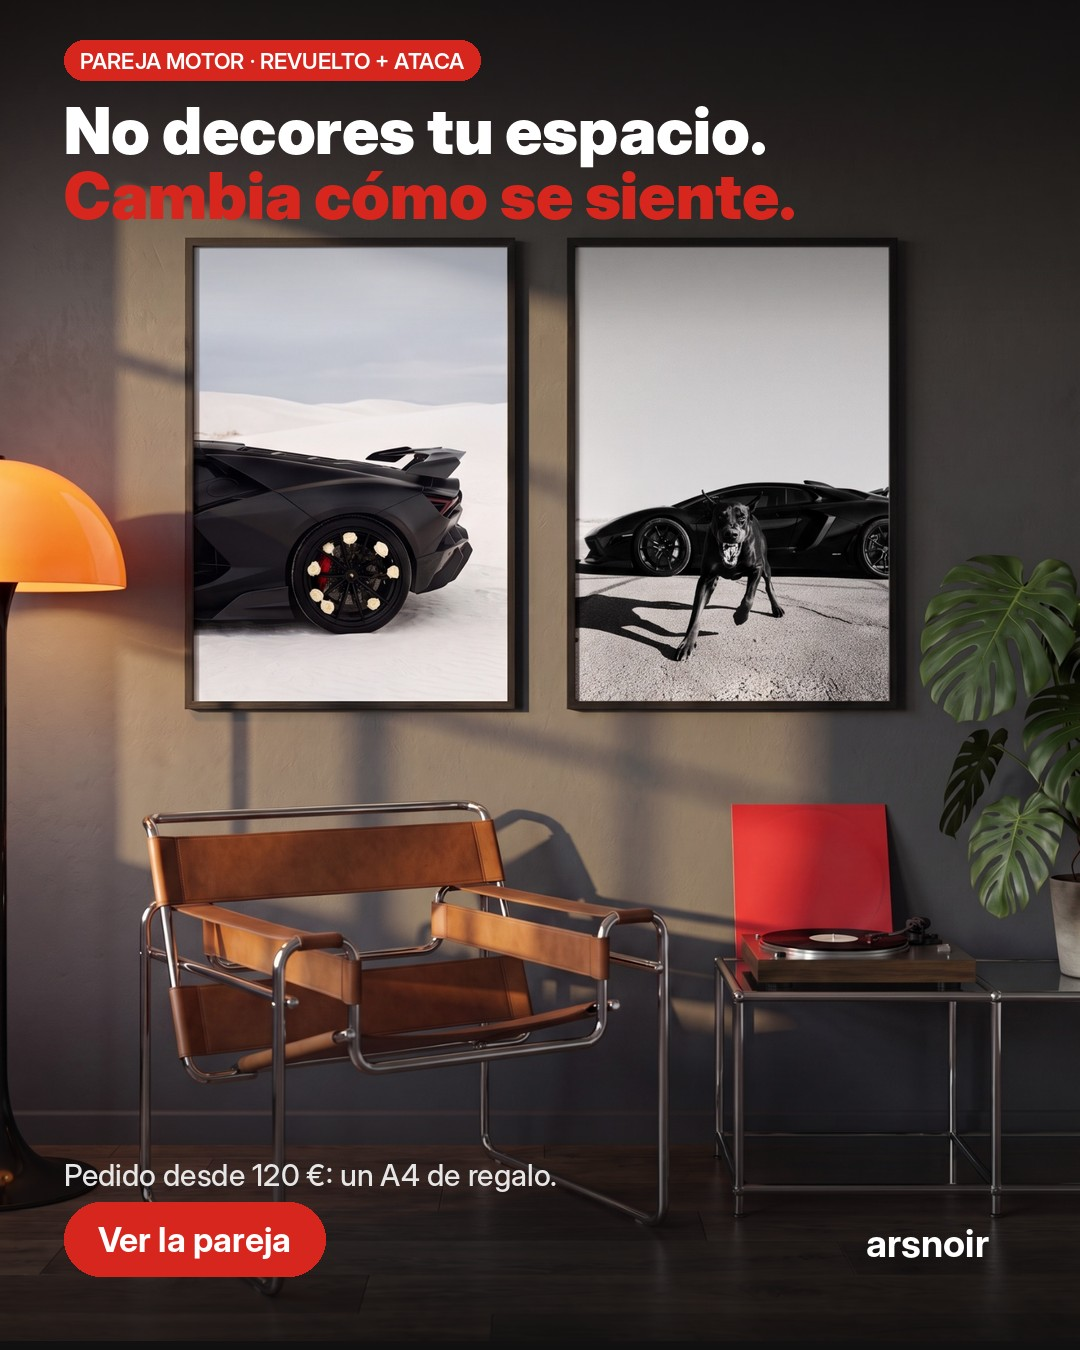
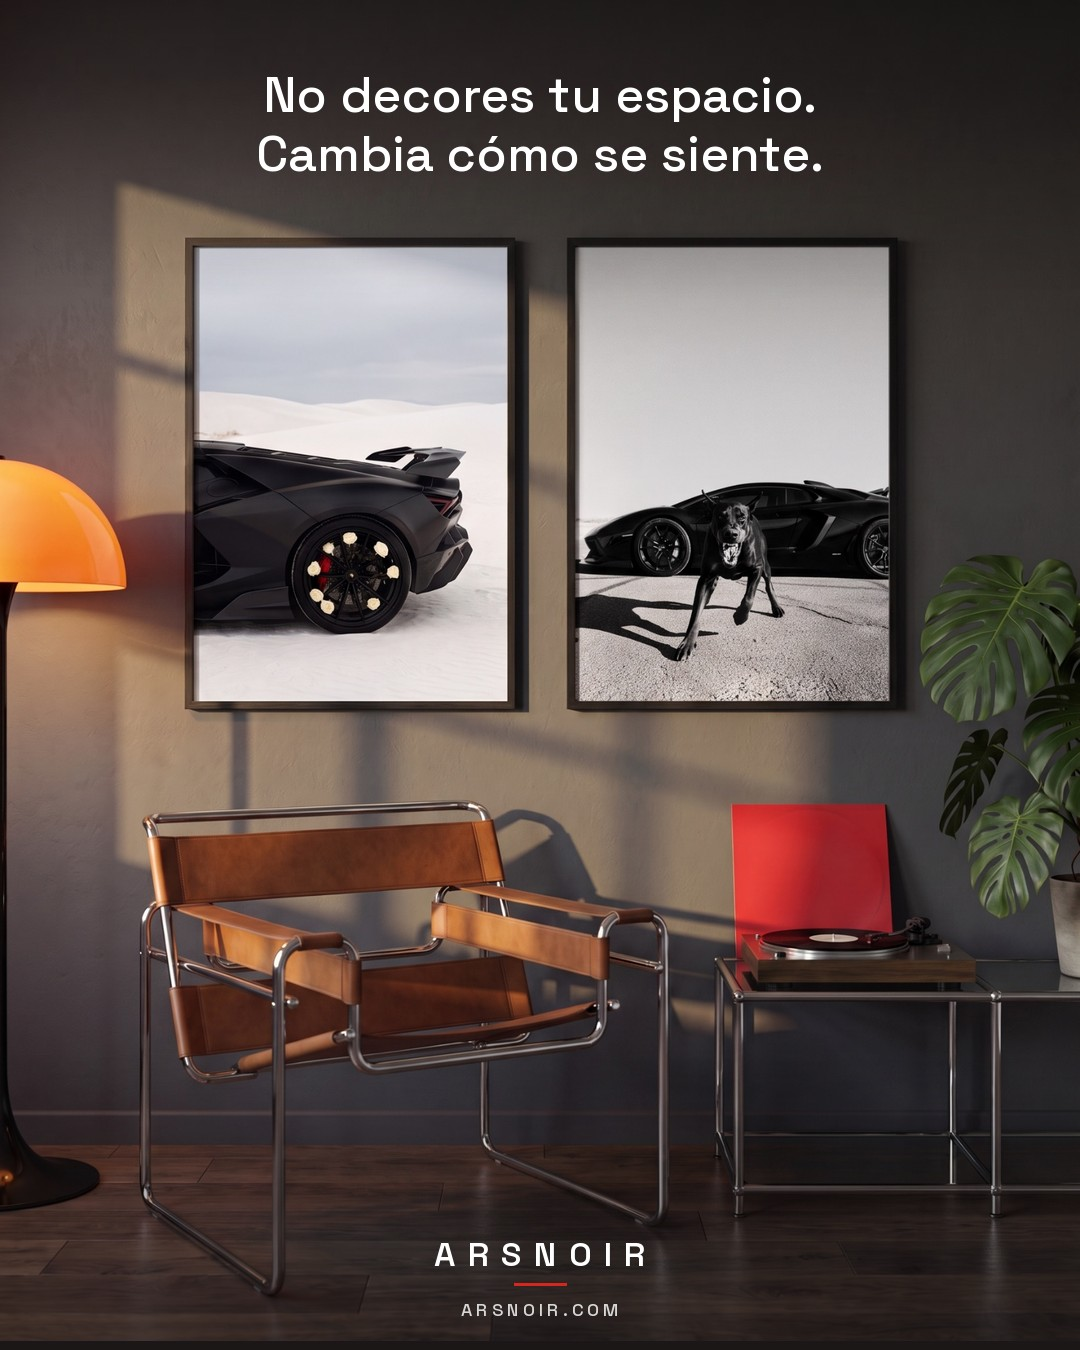
Meta Ads: pair ads c11/c12 in the brand's editorial style (Space Grotesk, centered line, spaced ARSNOIR wordmark, no drawn button)
Claude-Session: https://claude.ai/code/session_0194VZ5ga5soZRAmzpfCecMg

diff --git a/data/meta-ads-creativos.py b/data/meta-ads-creativos.py
@@ -368,13 +368,78 @@ def hero_ad(cid, photo, kicker, line1, line2, cta, tag):
         save(im, f"{cid}-{fmt}.jpg")
 
 
-hero_ad(
+
+def grotesk(size, weight):
+    """Space Grotesk del tema (assets/space-grotesk-latin.woff2), la tipografía de la web."""
+    import io
+    from fontTools.ttLib import TTFont
+    tt = TTFont(str(ROOT / "assets" / "space-grotesk-latin.woff2"))
+    tt.flavor = None
+    buf = io.BytesIO()
+    tt.save(buf)
+    buf.seek(0)
+    f = ImageFont.truetype(buf, size)
+    f.set_variation_by_axes([weight])
+    return f
+
+
+def spaced(draw, cx, y, text, f, fill, tracking):
+    """Texto centrado con espaciado entre letras (como el logotipo de los reels)."""
+    widths = [draw.textlength(ch, font=f) for ch in text]
+    total = sum(widths) + tracking * (len(text) - 1)
+    x = cx - total / 2
+    for ch, w in zip(text, widths):
+        draw.text((x, y), ch, font=f, fill=fill)
+        x += w + tracking
+    return total
+
+
+def editorial_ad(cid, photo, lines, caption=None):
+    """Foto a sangre con el texto mínimo de la marca: frase centrada arriba y ARSNOIR abajo.
+    Sin botón dibujado: el botón lo pone Meta debajo del anuncio."""
+    src = Image.open(M / photo).convert("RGB")
+    wall = src.getpixel((src.width // 2, 40))
+    floor = src.getpixel((src.width // 2, src.height - 10))
+    for fmt, (W, H) in {"4x5": (1080, 1350), "9x16": (1080, 1920)}.items():
+        im = Image.new("RGBA", (W, H), wall + (255,))
+        ph = round(src.height * W / src.width)
+        photo_y = 0 if fmt == "4x5" else 250
+        im.paste(src.resize((W, ph), Image.LANCZOS), (0, photo_y))
+        if fmt == "9x16":
+            fade = 160
+            top = Image.new("RGBA", (W, fade), wall + (255,))
+            top.putalpha(Image.linear_gradient("L").rotate(180).resize((W, fade)))
+            im.alpha_composite(top, (0, photo_y))
+            below = Image.new("RGBA", (W, H - (photo_y + ph) + fade), floor + (255,))
+            mask = Image.new("L", below.size, 255)
+            mask.paste(Image.linear_gradient("L").resize((W, fade)), (0, 0))
+            below.putalpha(mask)
+            im.alpha_composite(below, (0, photo_y + ph - fade))
+        im.alpha_composite(gradient(W, 300 + photo_y, 110, 0), (0, 0))
+        im.alpha_composite(gradient(W, 300, 0, 150), (0, H - 300 - (0 if fmt == "4x5" else 380)))
+        if fmt == "9x16":
+            im.alpha_composite(Image.new("RGBA", (W, 380), INK + (150,)), (0, H - 380))
+        d = ImageDraw.Draw(im)
+        cx = W / 2
+        size = 50 if fmt == "4x5" else 54
+        f = grotesk(size, 500)
+        y = 62 if fmt == "4x5" else 300
+        for line in lines:
+            d.text((cx - d.textlength(line, font=f) / 2, y), line, font=f, fill=WHITE)
+            y += round(size * 1.18)
+        base = H - 118 if fmt == "4x5" else round(H * 0.80) - 70
+        w = spaced(d, cx, base, "ARSNOIR", grotesk(34, 600), WHITE, 12)
+        d.line((cx - 26, base + 52, cx + 26, base + 52), fill=RED, width=3)
+        small = caption or "ARSNOIR.COM"
+        spaced(d, cx, base + 66, small.upper(), grotesk(18, 500), (215, 215, 215), 4)
+        save(im, f"{cid}-{fmt}.jpg")
+
+
+editorial_ad(
     "c11-pareja-motor", "ads/src/pareja-motor-revuelto-ataca.jpg",
-    "Pareja Motor · Revuelto + Ataca", "Hay quien los aparca.", "Tú los cuelgas.",
-    "Ver la pareja", "Pedido desde 120 €: un A4 de regalo.",
+    ["Hay quien los aparca.", "Tú los cuelgas."],
 )
-hero_ad(
+editorial_ad(
     "c12-pareja-motor-manifiesto", "ads/src/pareja-motor-revuelto-ataca.jpg",
-    "Pareja Motor · Revuelto + Ataca", "No decores tu espacio.", "Cambia cómo se siente.",
-    "Ver la pareja", "Pedido desde 120 €: un A4 de regalo.",
+    ["No decores tu espacio.", "Cambia cómo se siente."],
 )
